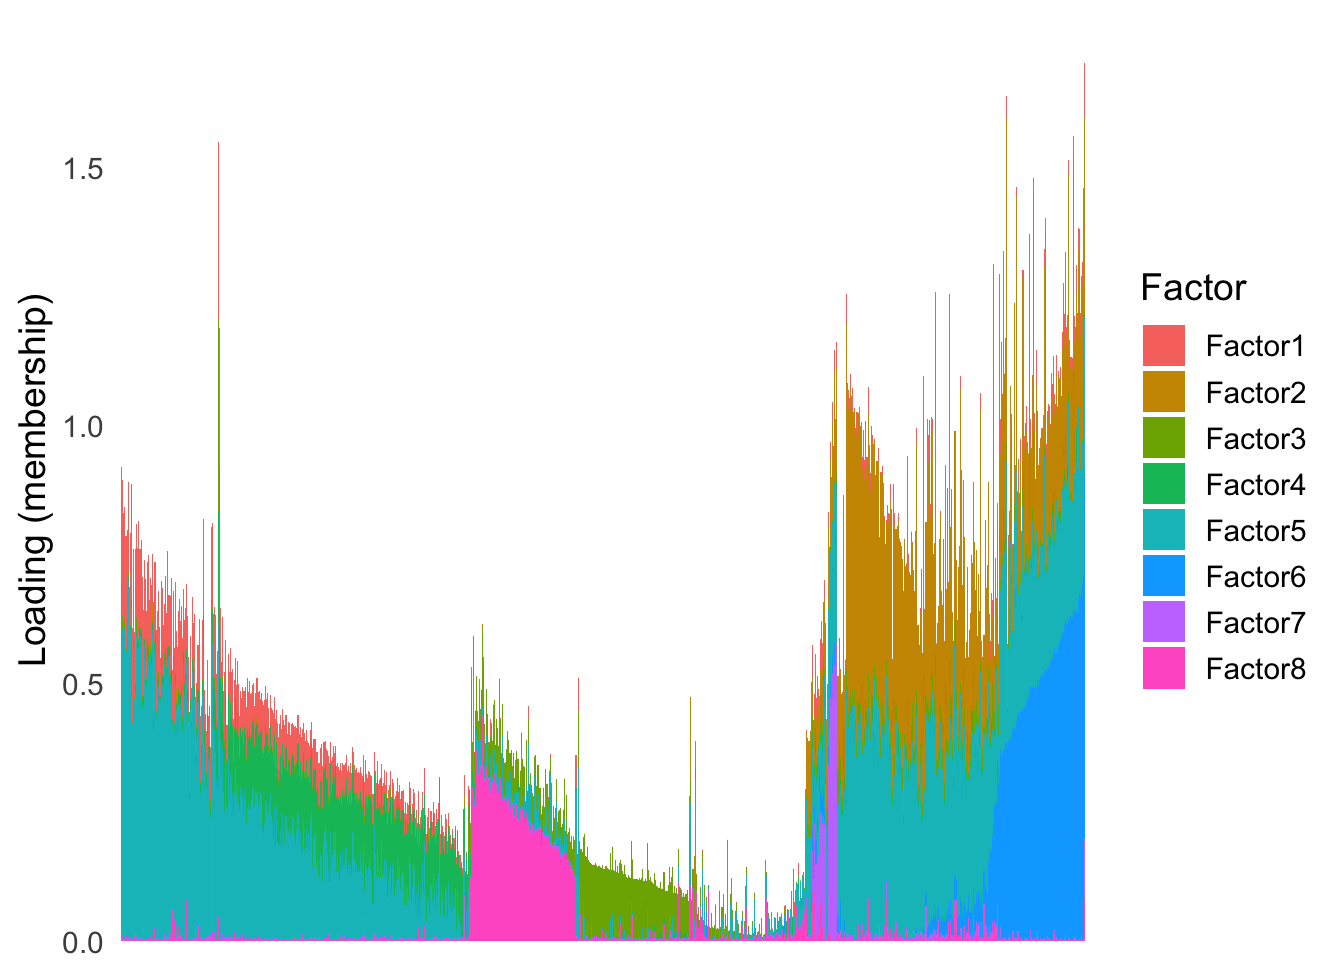
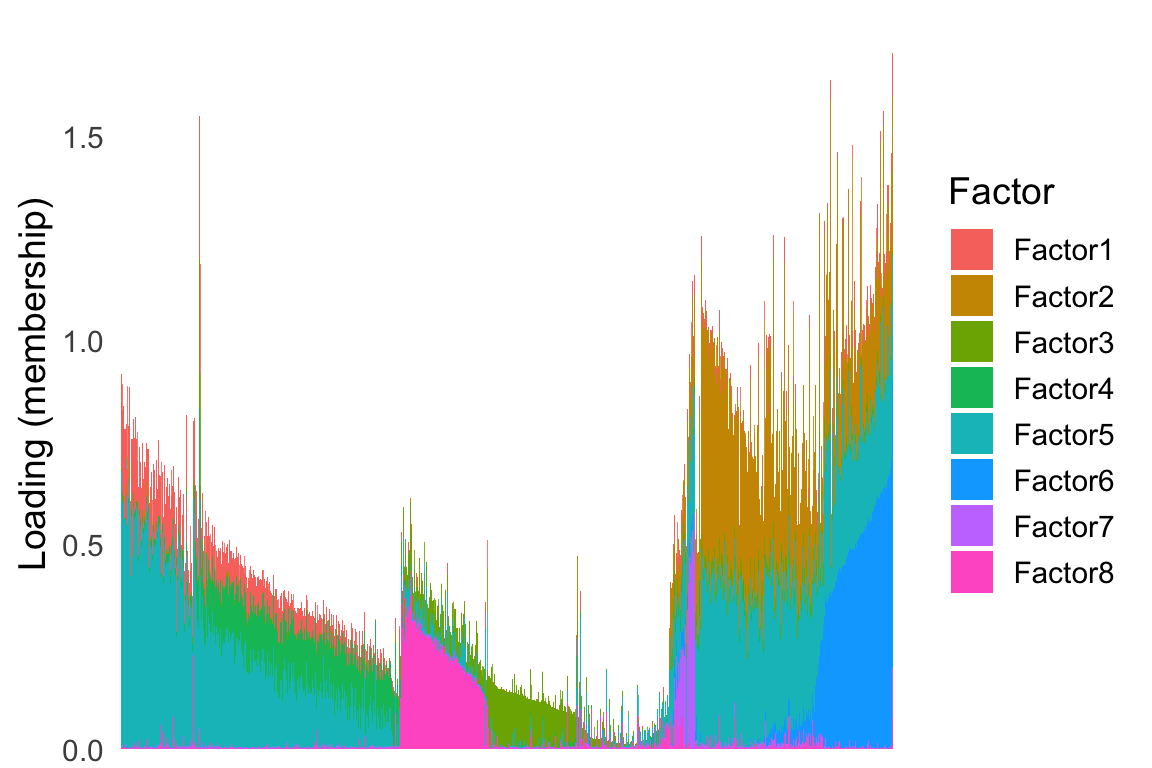
Build site.

Changed region(s): [[0.0, 0.1562, 0.9688, 1.0], [0.0312, 0.1562, 0.0938, 0.1875]]

diff --git a/docs/explore_initialization.html b/docs/explore_initialization.html
@@ -510,15 +510,15 @@ project makes it easier to run your code on other machines.</p>
 <div class="panel panel-default">
 <div class="panel-heading">
 <p class="panel-title">
-<a data-toggle="collapse" data-parent="#workflowr-checks" href="#strongRepositoryversionstrongahrefhttpsgithubcomAgueroZZInferOrdertree24b939dab078d129e21d2e3c54fad976bd11dca3targetblank24b939da">
+<a data-toggle="collapse" data-parent="#workflowr-checks" href="#strongRepositoryversionstrongahrefhttpsgithubcomAgueroZZInferOrdertreebfcb22d090853ac910a533c4254873e39d87d422targetblankbfcb22da">
 <span class="glyphicon glyphicon-ok text-success"
 aria-hidden="true"></span> <strong>Repository version:</strong>
-<a href="https://github.com/AgueroZZ/InferOrder/tree/24b939dab078d129e21d2e3c54fad976bd11dca3" target="_blank">24b939d</a>
+<a href="https://github.com/AgueroZZ/InferOrder/tree/bfcb22d090853ac910a533c4254873e39d87d422" target="_blank">bfcb22d</a>
 </a>
 </p>
 </div>
 <div
[2 lines of base64/hex data omitted]
 class="panel-collapse collapse">
 <div class="panel-body">
 <p>
@@ -528,7 +528,7 @@ reproducibility.
 </p>
 <p>
 The results in this page were generated with repository version
-<a href="https://github.com/AgueroZZ/InferOrder/tree/24b939dab078d129e21d2e3c54fad976bd11dca3" target="_blank">24b939d</a>.
+<a href="https://github.com/AgueroZZ/InferOrder/tree/bfcb22d090853ac910a533c4254873e39d87d422" target="_blank">bfcb22d</a>.
 See the <em>Past versions</em> tab to see a history of the changes made
 to the R Markdown and HTML files.
 </p>
@@ -570,6 +570,7 @@ Untracked files:
 Unstaged changes:
     Modified:   analysis/explore_SmoothEM_Mixture_greedy.rmd
     Modified:   analysis/explore_trajectory.rmd
+    Modified:   analysis/index.Rmd
     Modified:   analysis/kriging.rmd
     Modified:   code/general_EM.R
     Modified:   code/general_EM_obs.R
@@ -623,6 +624,40 @@ Message
 </tr>
 </thead>
 <tbody>
+<tr>
+<td>
+Rmd
+</td>
+<td>
+<a href="https://github.com/AgueroZZ/InferOrder/blob/bfcb22d090853ac910a533c4254873e39d87d422/analysis/explore_initialization.rmd" target="_blank">bfcb22d</a>
+</td>
+<td>
+Ziang Zhang
+</td>
+<td>
+2025-12-15
+</td>
+<td>
+workflowr::wflow_publish("analysis/explore_initialization.rmd")
+</td>
+</tr>
+<tr>
+<td>
+html
+</td>
+<td>
+<a href="https://rawcdn.githack.com/AgueroZZ/InferOrder/b7e2de745598666af32ad327481f8111cb4a4692/docs/explore_initialization.html" target="_blank">b7e2de7</a>
+</td>
+<td>
+Ziang Zhang
+</td>
+<td>
+2025-12-15
+</td>
+<td>
+Build site.
+</td>
+</tr>
 <tr>
 <td>
 Rmd
@@ -890,6 +925,17 @@ Date
 <tbody>
 <tr>
 <td>
+<a href="https://github.com/AgueroZZ/InferOrder/blob/b7e2de745598666af32ad327481f8111cb4a4692/docs/figure/explore_initialization.rmd/unnamed-chunk-3-1.png" target="_blank">b7e2de7</a>
+</td>
+<td>
+Ziang Zhang
+</td>
+<td>
+2025-12-15
+</td>
+</tr>
+<tr>
+<td>
 <a href="https://github.com/AgueroZZ/InferOrder/blob/92d83f759587149b6329acf03e7b195dfdd041f7/docs/figure/explore_initialization.rmd/unnamed-chunk-3-1.png" target="_blank">92d83f7</a>
 </td>
 <td>
@@ -991,6 +1037,17 @@ Date
 <tbody>
 <tr>
 <td>
+<a href="https://github.com/AgueroZZ/InferOrder/blob/b7e2de745598666af32ad327481f8111cb4a4692/docs/figure/explore_initialization.rmd/unnamed-chunk-4-1.png" target="_blank">b7e2de7</a>
+</td>
+<td>
+Ziang Zhang
+</td>
+<td>
+2025-12-15
+</td>
+</tr>
+<tr>
+<td>
 <a href="https://github.com/AgueroZZ/InferOrder/blob/92d83f759587149b6329acf03e7b195dfdd041f7/docs/figure/explore_initialization.rmd/unnamed-chunk-4-1.png" target="_blank">92d83f7</a>
 </td>
 <td>
@@ -1081,6 +1138,17 @@ Date
 </tr>
 </thead>
 <tbody>
+<tr>
+<td>
+<a href="https://github.com/AgueroZZ/InferOrder/blob/b7e2de745598666af32ad327481f8111cb4a4692/docs/figure/explore_initialization.rmd/unnamed-chunk-5-1.png" target="_blank">b7e2de7</a>
+</td>
+<td>
+Ziang Zhang
+</td>
+<td>
+2025-12-15
+</td>
+</tr>
 <tr>
 <td>
 <a href="https://github.com/AgueroZZ/InferOrder/blob/92d83f759587149b6329acf03e7b195dfdd041f7/docs/figure/explore_initialization.rmd/unnamed-chunk-5-1.png" target="_blank">92d83f7</a>
@@ -1184,6 +1252,17 @@ Date
 <tbody>
 <tr>
 <td>
+<a href="https://github.com/AgueroZZ/InferOrder/blob/b7e2de745598666af32ad327481f8111cb4a4692/docs/figure/explore_initialization.rmd/unnamed-chunk-6-1.png" target="_blank">b7e2de7</a>
+</td>
+<td>
+Ziang Zhang
+</td>
+<td>
+2025-12-15
+</td>
+</tr>
+<tr>
+<td>
 <a href="https://github.com/AgueroZZ/InferOrder/blob/92d83f759587149b6329acf03e7b195dfdd041f7/docs/figure/explore_initialization.rmd/unnamed-chunk-6-1.png" target="_blank">92d83f7</a>
 </td>
 <td>
@@ -1242,8 +1321,16 @@ Ziang Zhang
 </div>
 </div>
 </div>
-<div id="initialization-with-multi-resolution" class="section level2">
-<h2>Initialization with multi-resolution</h2>
+<div id="initialization-with-multi-scale" class="section level2">
+<h2>Initialization with multi-scale</h2>
+<p>Finally, we will consider initializing the SmoothEM with the
+multi-scale progressive smoothing approach.</p>
+<p>We start with a small choice of <span
+class="math inline">\(K\)</span> (e.g., K=2), and gradually increase
+<span class="math inline">\(K\)</span> to the desired value (e.g., K=65)
+by equally splitting the intervals between two grid-locations. The mean
+values from the previous stage will be kriged to get the initial mean
+values for the next stage.</p>
 <pre class="r"><code>result_RW2_multi &lt;- progressive_smoothEM(
   data = Loadings,
   m_max = 6,              
@@ -1262,7 +1349,7 @@ result_RW2_multi$clustering &lt;- apply(result_RW2_multi$fits$K_65$gamma, 1, whi
 result_RW2_multi$position &lt;- result_RW2_multi$fits$K_65$gamma %*% matrix(1:65, ncol=1)
 loadings_order_RW2_multi &lt;- order(result_RW2_multi$position)
 plot_structure(Loadings, order = rownames(Loadings)[loadings_order_RW2_multi])</code></pre>
-<p><img src="figure/explore_initialization.rmd/unnamed-chunk-7-1.png" width="672" style="display: block; margin: auto;" /></p>
+<p><img src="figure/explore_initialization.rmd/unnamed-chunk-7-1.png" width="576" style="display: block; margin: auto;" /></p>
 <p>
 <button type="button" class="btn btn-default btn-xs btn-workflowr btn-workflowr-fig" data-toggle="collapse" data-target="#fig-unnamed-chunk-7-1">
 Past versions of unnamed-chunk-7-1.png
@@ -1285,6 +1372,17 @@ Date
 </tr>
 </thead>
 <tbody>
+<tr>
+<td>
+<a href="https://github.com/AgueroZZ/InferOrder/blob/b7e2de745598666af32ad327481f8111cb4a4692/docs/figure/explore_initialization.rmd/unnamed-chunk-7-1.png" target="_blank">b7e2de7</a>
+</td>
+<td>
+Ziang Zhang
+</td>
+<td>
+2025-12-15
+</td>
+</tr>
 <tr>
 <td>
 <a href="https://github.com/AgueroZZ/InferOrder/blob/70fc6d22a9d019309b2349a49afe62a89e9c478e/docs/figure/explore_initialization.rmd/unnamed-chunk-7-1.png" target="_blank">70fc6d2</a>
@@ -1338,7 +1436,44 @@ ggplot(elbo_long, aes(x = Iteration, y = ELBO, color = Method, linetype = Method
 This warning is displayed once every 8 hours.
 Call `lifecycle::last_lifecycle_warnings()` to see where this warning was
 generated.</code></pre>
-<p><img src="figure/explore_initialization.rmd/unnamed-chunk-8-1.png" width="672" style="display: block; margin: auto;" /></p>
+<p><img src="figure/explore_initialization.rmd/unnamed-chunk-8-1.png" width="576" style="display: block; margin: auto;" /></p>
+<p>
+<button type="button" class="btn btn-default btn-xs btn-workflowr btn-workflowr-fig" data-toggle="collapse" data-target="#fig-unnamed-chunk-8-1">
+Past versions of unnamed-chunk-8-1.png
+</button>
+</p>
+<div id="fig-unnamed-chunk-8-1" class="collapse">
+<div class="table-responsive">
+<table class="table table-condensed table-hover">
+<thead>
+<tr>
+<th>
+Version
+</th>
+<th>
+Author
+</th>
+<th>
+Date
+</th>
+</tr>
+</thead>
+<tbody>
+<tr>
+<td>
+<a href="https://github.com/AgueroZZ/InferOrder/blob/b7e2de745598666af32ad327481f8111cb4a4692/docs/figure/explore_initialization.rmd/unnamed-chunk-8-1.png" target="_blank">b7e2de7</a>
+</td>
+<td>
+Ziang Zhang
+</td>
+<td>
+2025-12-15
+</td>
+</tr>
+</tbody>
+</table>
+</div>
+</div>
 <br>
 <p>
 <button type="button" class="btn btn-default btn-workflowr btn-workflowr-sessioninfo" data-toggle="collapse" data-target="#workflowr-sessioninfo" style="display: block;">
